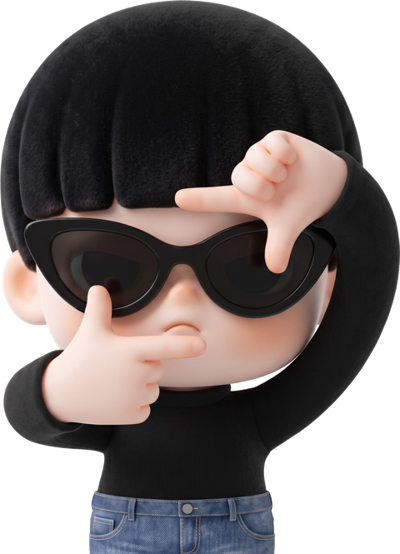
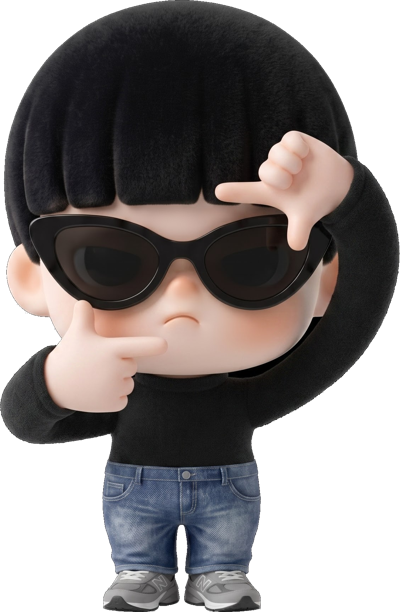
생각 화면: 머리 캐릭터를 생각하는 포즈로, 첫 3초 카드 네모 포즈 교체 (준범 플로우 생성, 배경 따내고 떨어진 얼룩·워터마크 제거)
Claude-Session: https://claude.ai/code/session_01DJt5ftxHbcJroA7MioF4jf

diff --git a/index.html b/index.html
@@ -245,7 +245,7 @@
                     <!-- 2026-09-04 개편: 초안 칩 제거, 에세이 3→2, 캐릭터(찐컷캐릭터.png) 얼굴 자리, 카드에 루프 영상, 끝에 신청 버튼.
                          캐릭터 포즈 2장(검지 든 것·손 프레임)은 준범이 플로우로 만들어 주면 카드 옆에 붙인다 -->
                     <div class="think-head reveal">
-                        <img class="think-figure" src="assets/images/찐컷캐릭터.png" alt="찐컷 캐릭터" width="432" height="578" loading="lazy">
+                        <img class="think-figure" src="assets/images/char-think.png" alt="찐컷 캐릭터" width="410" height="695" loading="lazy">
                         <div>
                             <h2 class="section-title">찐컷의 생각</h2>
                             <p class="think-lead">40만 채널 PD가<br>소상공인 광고 영상을 만드는 이유</p>
@@ -294,7 +294,7 @@
                             <video class="note-loop" data-src="assets/loops/loop1.mp4" muted loop playsinline preload="none" aria-hidden="true"></video>
                             <b>첫 3초에 다 겁니다</b>
                             <p class="has-figure"><strong class="note-key">설명 말고 장면부터</strong>광고는 스킵 버튼과의 싸움이죠<br> 「이게 뭐지?」가 최고의 훅입니다</p>
-                            <img class="note-figure" src="assets/images/char-frame.png" alt="" width="400" height="554" loading="lazy">
+                            <img class="note-figure" src="assets/images/char-frame.png" alt="" width="400" height="612" loading="lazy">
                         </article>
                     </div>
 
